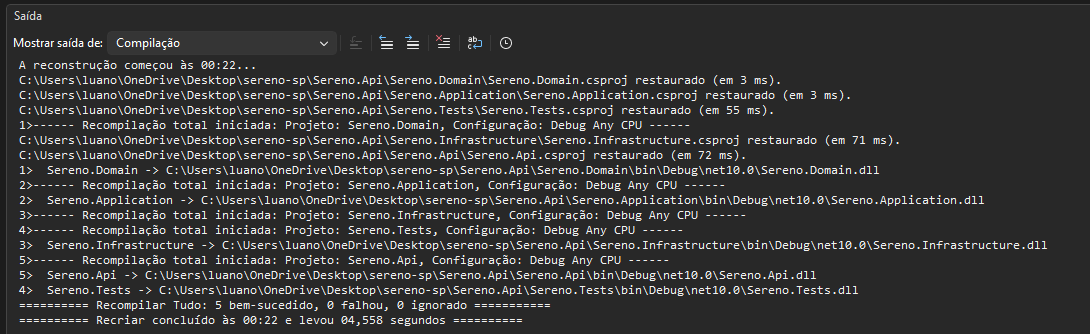
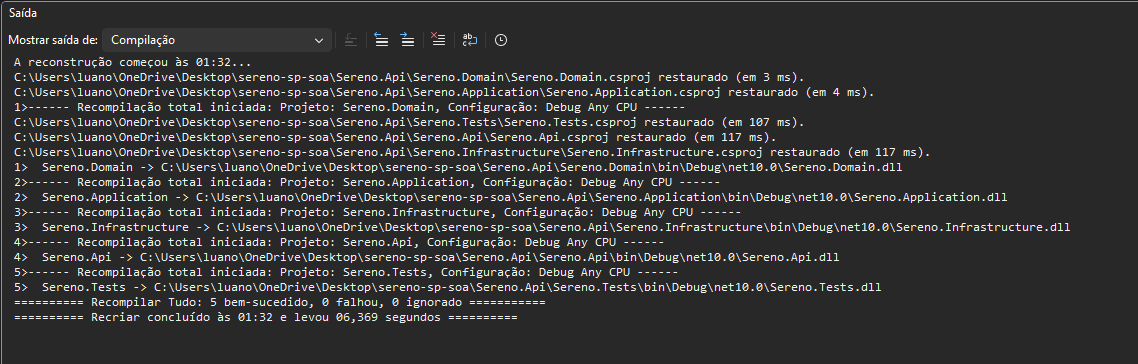
Finaliza SOA com testes HTTP e evidencias atualizadas

Changed region(s): [[0.0, 0.0898, 0.967, 0.988], [0.0, 0.0, 1.0, 0.0599], [0.3119, 0.0898, 0.4679, 0.1497]]

diff --git a/Sereno.Tests/Integration/ApiHttpTests.cs b/Sereno.Tests/Integration/ApiHttpTests.cs
@@ -1,0 +1,68 @@
+
+using System.Net;
+using System.Net.Http.Json;
+using Microsoft.AspNetCore.Mvc.Testing;
+using Sereno.Api.Controllers;
+using Xunit;
+
+namespace Sereno.Tests.Integration;
+
+public class ApiHttpTests :
+    IClassFixture<WebApplicationFactory<HealthController>>
+{
+    private readonly HttpClient _client;
+
+    public ApiHttpTests(
+        WebApplicationFactory<HealthController> factory)
+    {
+        _client = factory.CreateClient(
+            new WebApplicationFactoryClientOptions
+            {
+                BaseAddress = new Uri("https://localhost")
+            });
+    }
+
+    [Fact]
+    public async Task BuscarTotem_ComIdInvalido_DeveRetornar404()
+    {
+        // Arrange: ID que não atende à restrição Guid da rota
+        var url = "/api/totens/id-invalido";
+
+        // Act
+        var response = await _client.GetAsync(url);
+
+        // Assert
+        Assert.Equal(
+            HttpStatusCode.NotFound,
+            response.StatusCode);
+    }
+
+    [Fact]
+    public async Task CriarTotem_ComJsonInvalido_DeveRetornar400()
+    {
+        // Arrange: corpo JSON intencionalmente inválido
+        using var content = new StringContent(
+            "{ json invalido",
+            System.Text.Encoding.UTF8,
+            "application/json");
+
+        // Act
+        var response = await _client.PostAsync(
+            "/api/totens",
+            content);
+
+        // Assert: valida o código HTTP
+        Assert.Equal(
+            HttpStatusCode.BadRequest,
+            response.StatusCode);
+
+        // Valida o corpo da resposta de erro
+        var problema = await response.Content
+            .ReadFromJsonAsync<
+                Microsoft.AspNetCore.Mvc.ValidationProblemDetails>();
+
+        Assert.NotNull(problema);
+        Assert.Equal(400, problema.Status);
+        Assert.NotEmpty(problema.Errors);
+    }
+}
